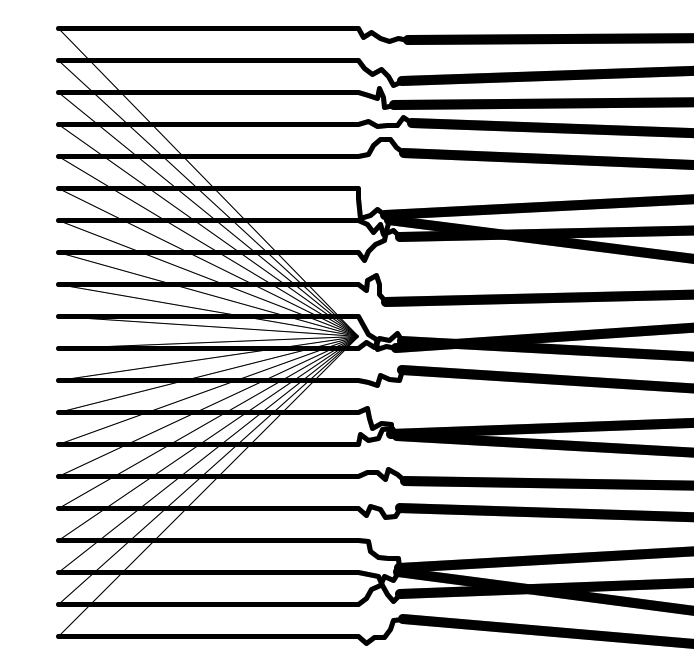
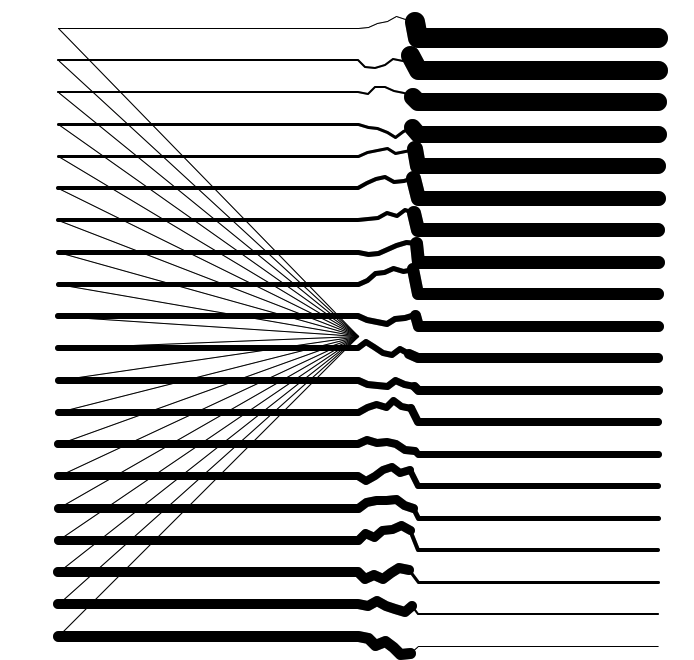
Update README

Changed region(s): [[0.0605, 0.0, 1.0, 1.0]]

diff --git a/tartle12/tart.py b/tartle12/tart.py
@@ -13,7 +13,7 @@ bounds = (366, 140, 1060, 800)
 def run():
 	def trail(t):
 		for i in range(0, 6):
-			random_heading = random.randint(-90, 90)
+			random_heading = random.randint(-45, 45)
 			t.setheading(random_heading)
 			t.forward(10)
 
@@ -23,20 +23,21 @@ def run():
 		turtles.append(t)
 
 	for n in range (0, 20):
+		turtles[n].speed(10)
 		turtles[n].hideturtle()
 		turtles[n].goto(-300, (n*32) - 300)
 		turtles[n].pendown()
-		turtles[n].width(5)
+		turtles[n].width(abs((21 - n)/2))
 		turtles[n].setheading(0)
 		turtles[n].forward(300)
 
 		trail(turtles[n])
 
 	for o in range(0, 20):
-		turtles[o].width(10)
-		turtles[o].goto(360, (o*32) - 310)
+		turtles[o].width(o + 1)
+		turtles[o].goto(60, (o*32) - 310)
 		turtles[o].setheading(0)
-		turtles[o].forward(140)
+		turtles[o].forward(240)
 
 	img = ImageGrab.grab(bbox=bounds)
 	img.save(this_dir + '/tartle12/tart.png', quality=95)
